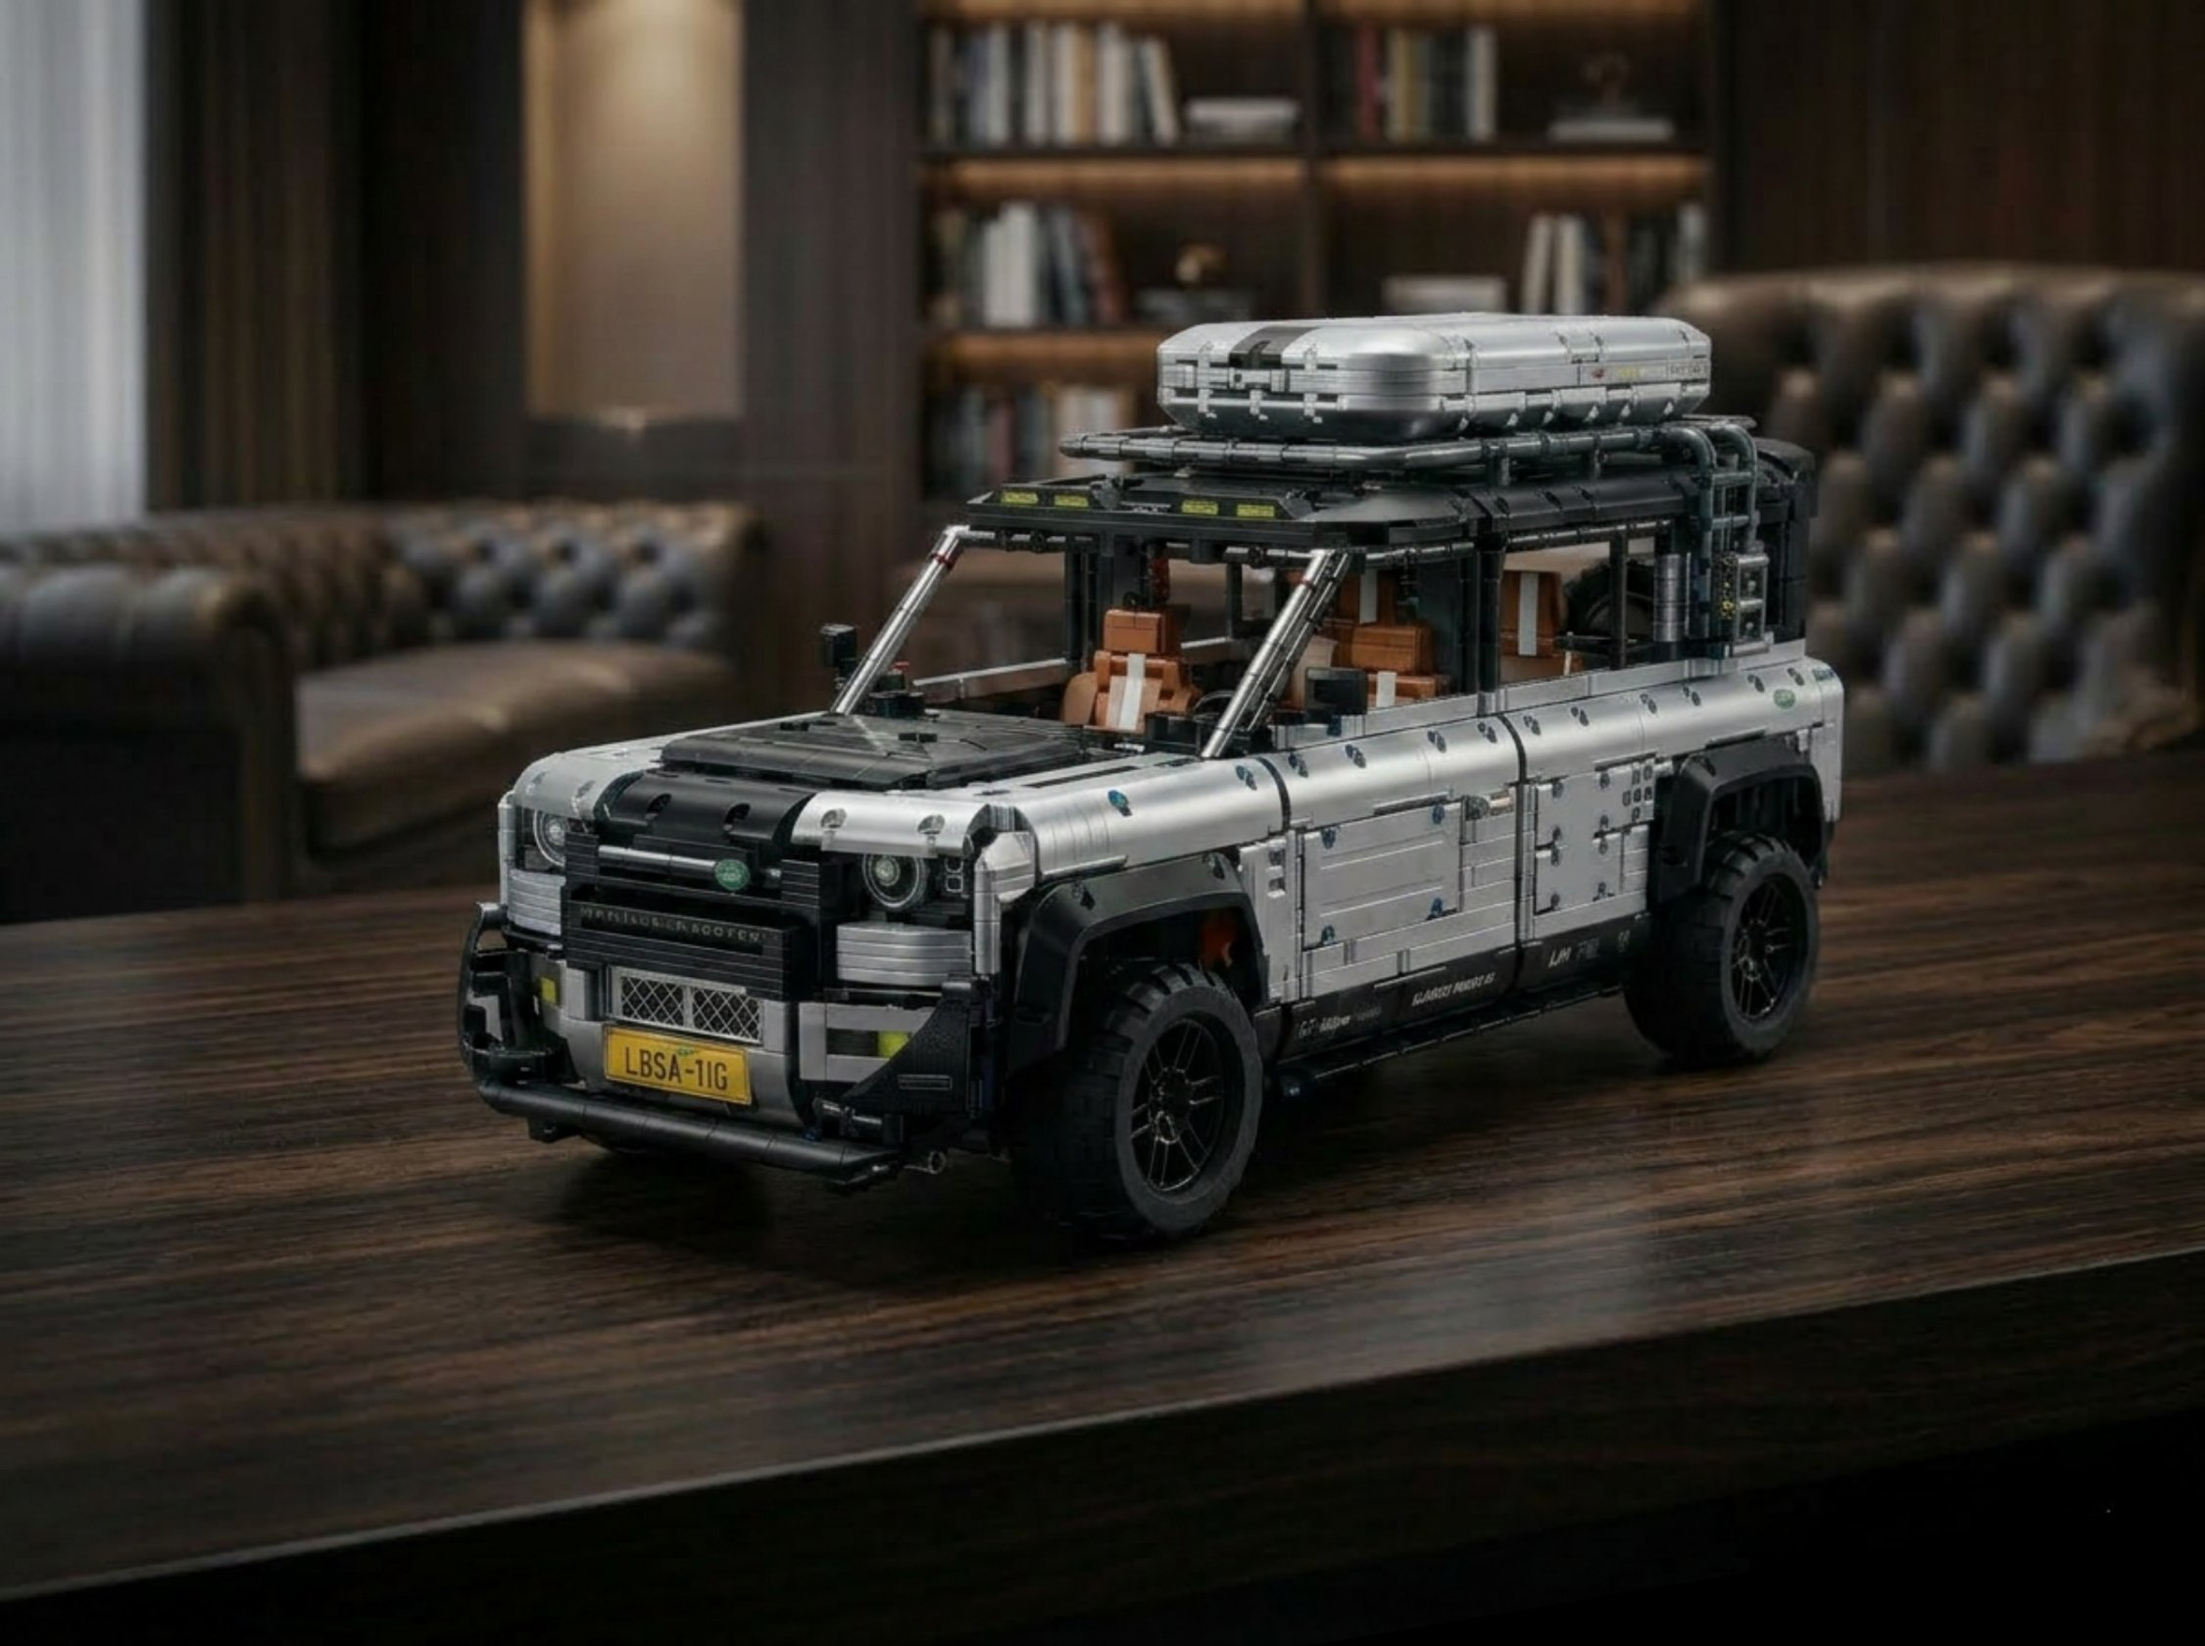
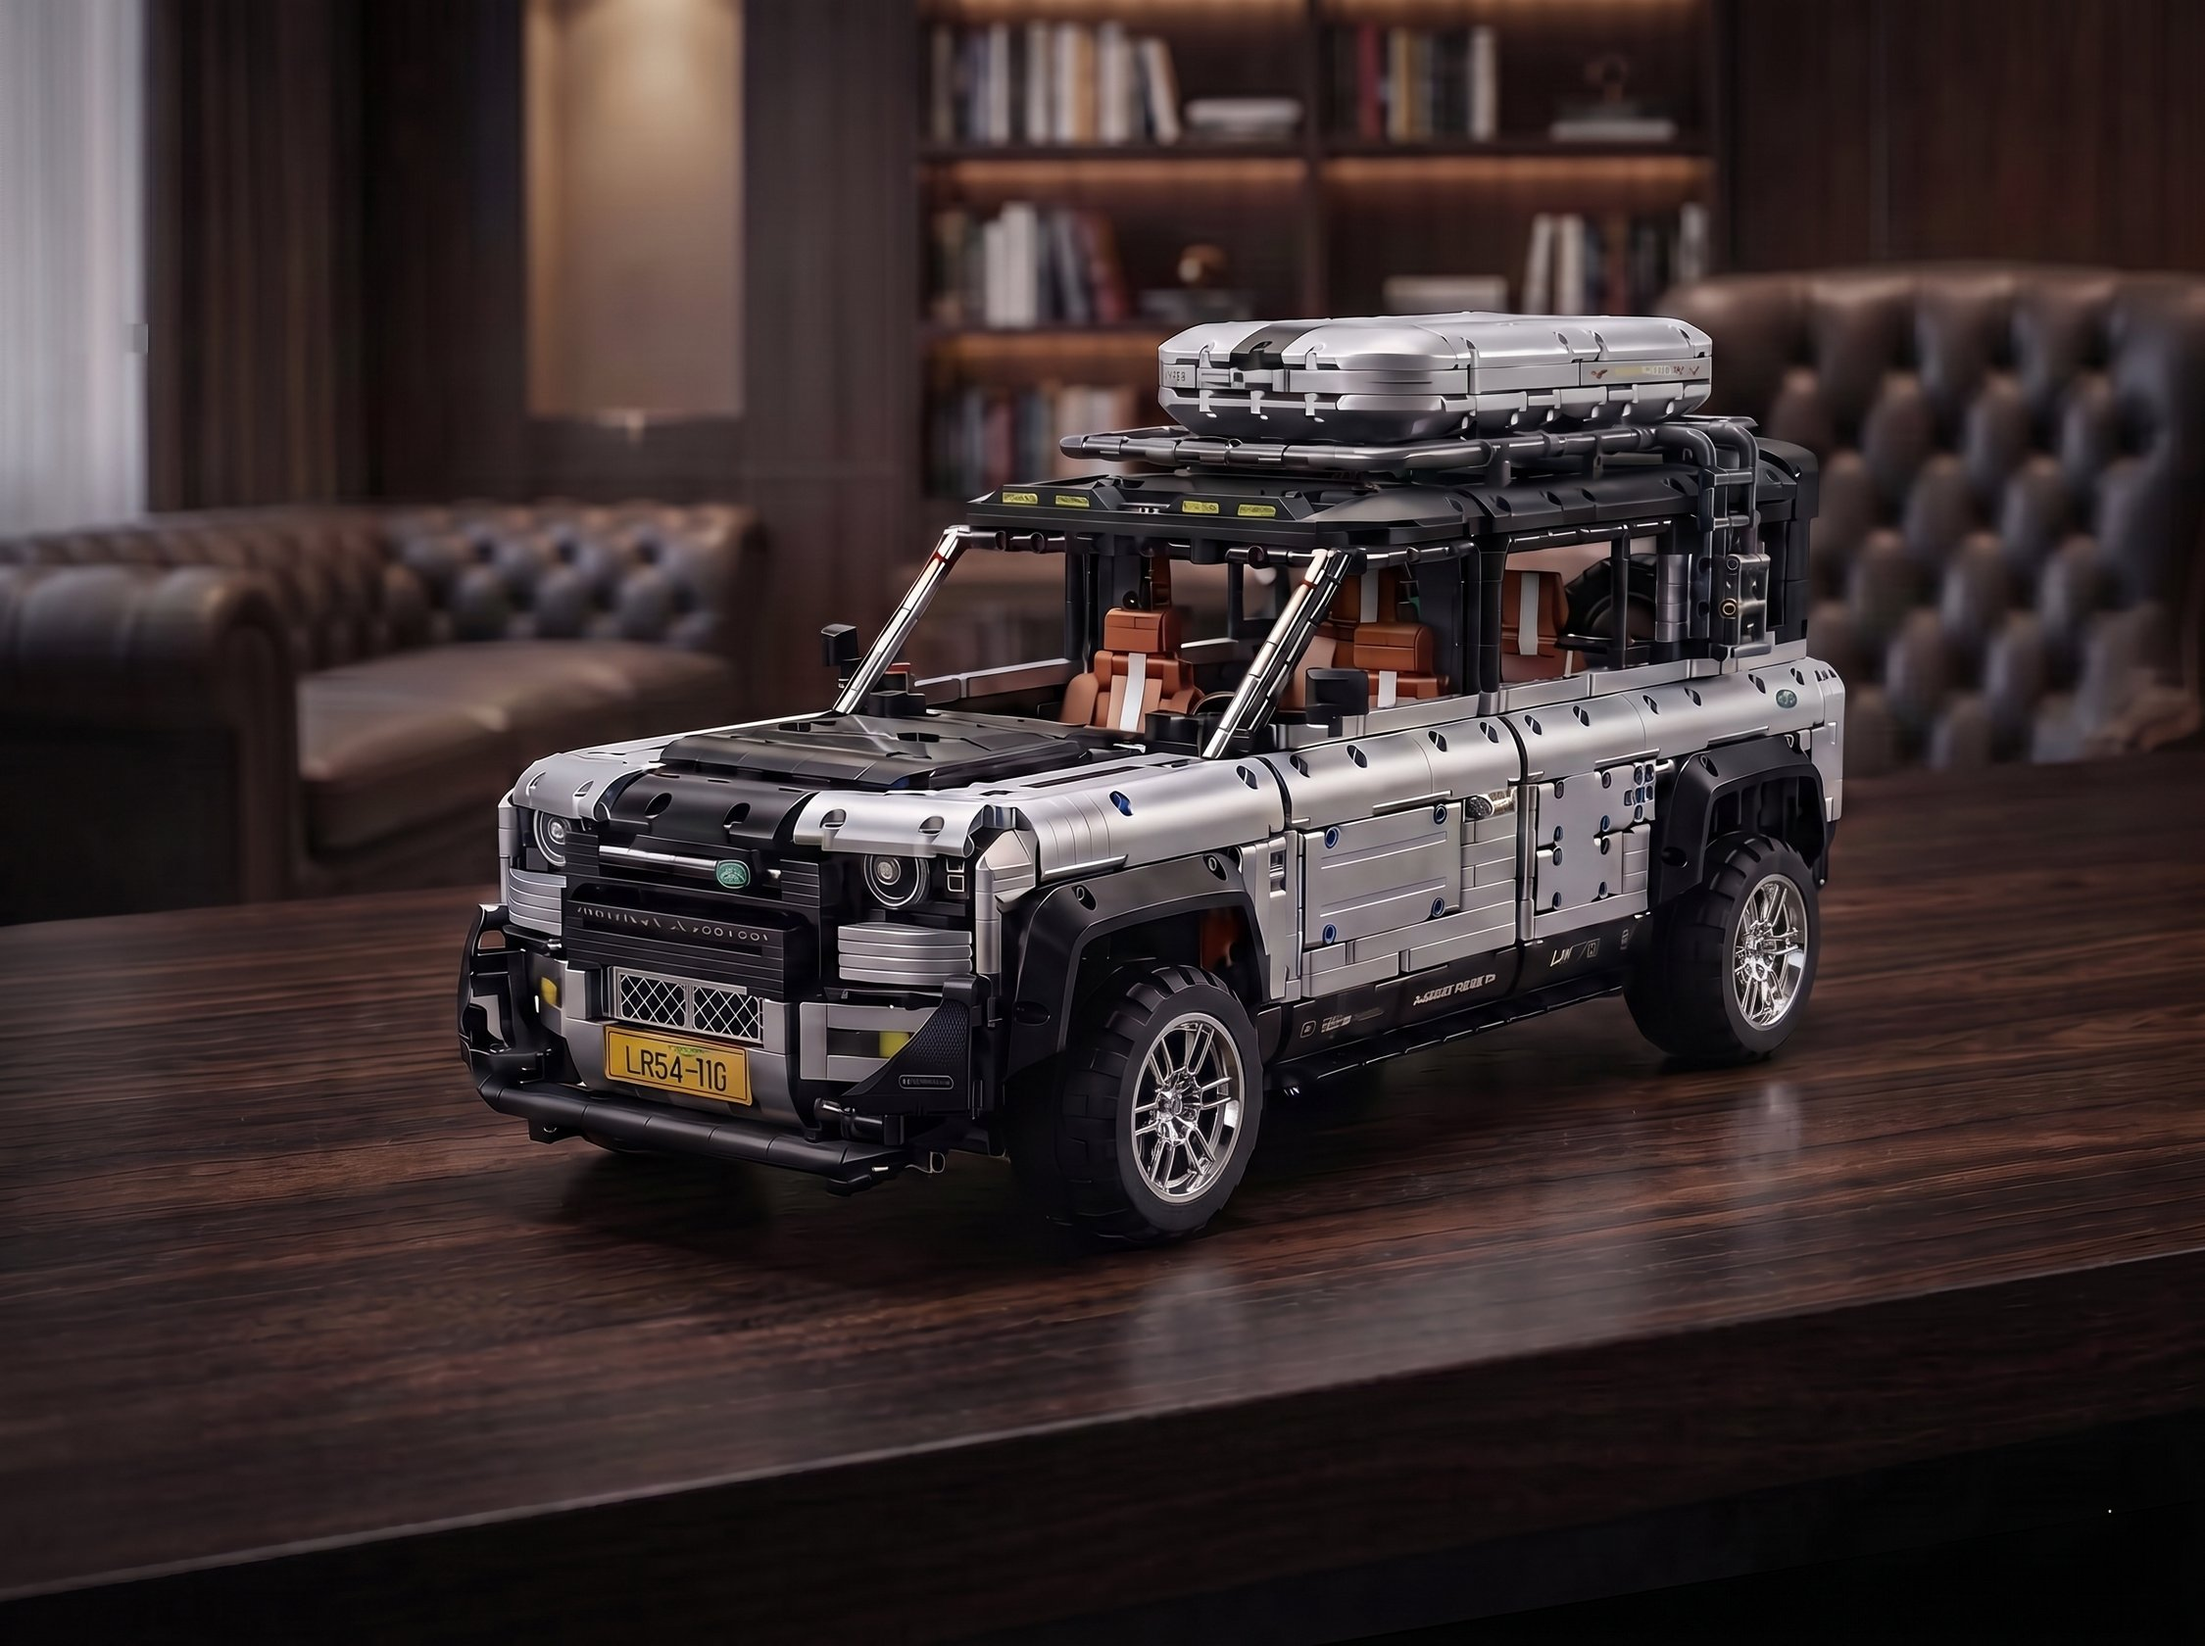
Add S18-016 photo gallery and fix cover with correct wheel color
Recomposes the S18-016 raw product photos (front, side, rear, detail,
packaging) into the same staged scene as the cover, corrects the wheel
rim color to silver across all shots, and wires them into the product
page as a clickable thumbnail gallery via image_urls.

diff --git a/site/src/lib/mockCatalog.ts b/site/src/lib/mockCatalog.ts
@@ -16,6 +16,6 @@ export const mockCatalog: CatalogProduct[] = [
   { id: 'S18-013', sku: 'S18-013', name: 'Nissan GTR Liberty Walk', category: 'carro', brand_model: 'Nissan GT-R', manufacturer: 'GULY', collection_tag: 'Supercarro', scale: '1:8', piece_count: 3939, sale_price_brl: 1656.7, image_url: '/products/S18-013.jpg', image_urls: [], video_url: null, automotive_history: null, dimensions: null, spec_highlights: null, length_cm: null, height_cm: null, width_cm: null, quantity_available: 28 },
   { id: 'S18-014', sku: 'S18-014', name: 'Ferrari Enzo', category: 'carro', brand_model: 'Ferrari Enzo', manufacturer: 'KBOX', collection_tag: 'Supercarro', scale: '1:8', piece_count: 4301, sale_price_brl: 1656.7, image_url: '/products/S18-014.jpg', image_urls: [], video_url: null, automotive_history: null, dimensions: null, spec_highlights: null, length_cm: null, height_cm: null, width_cm: null, quantity_available: 9 },
   { id: 'S18-015', sku: 'S18-015', name: 'Ferrari SF90 XX Stradale', category: 'carro', brand_model: 'Ferrari SF90 XX', manufacturer: 'GULY', collection_tag: 'Supercarro', scale: '1:8', piece_count: 3639, sale_price_brl: 1564.4, image_url: '/products/S18-015.jpg', image_urls: [], video_url: null, automotive_history: null, dimensions: null, spec_highlights: null, length_cm: null, height_cm: null, width_cm: null, quantity_available: 20 },
-  { id: 'S18-016', sku: 'S18-016', name: 'Land Rover Discovery', category: 'carro', brand_model: 'Land Rover Discovery', manufacturer: 'GULY', collection_tag: 'Off Road', scale: '1:8', piece_count: 4817, sale_price_brl: 2072.0, image_url: '/products/S18-016.jpg', image_urls: [], video_url: null, automotive_history: null, dimensions: null, spec_highlights: null, length_cm: null, height_cm: null, width_cm: null, quantity_available: 15 },
+  { id: 'S18-016', sku: 'S18-016', name: 'Land Rover Discovery', category: 'carro', brand_model: 'Land Rover Discovery', manufacturer: 'GULY', collection_tag: 'Off Road', scale: '1:8', piece_count: 4817, sale_price_brl: 2072.0, image_url: '/products/S18-016.jpg', image_urls: ['/products/S18-016-frente.jpg', '/products/S18-016-lateral.jpg', '/products/S18-016-traseira.jpg', '/products/S18-016-detalhe.jpg', '/products/S18-016-caixa.jpg'], video_url: null, automotive_history: null, dimensions: null, spec_highlights: null, length_cm: null, height_cm: null, width_cm: null, quantity_available: 15 },
   { id: 'S18-017', sku: 'S18-017', name: 'Lamborghini Aventador SVJ', category: 'carro', brand_model: 'Lamborghini Aventador SVJ', manufacturer: 'KBOX', collection_tag: 'Supercarro', scale: '1:8', piece_count: 3811, sale_price_brl: 1656.7, image_url: '/products/S18-017.jpg', image_urls: [], video_url: null, automotive_history: null, dimensions: null, spec_highlights: null, length_cm: null, height_cm: null, width_cm: null, quantity_available: 4 },
 ]

diff --git a/site/src/pages/Product.tsx b/site/src/pages/Product.tsx
@@ -21,11 +21,18 @@ export function Product() {
   const [product, setProduct] = useState<CatalogProduct | null | undefined>(undefined)
   const [quantity, setQuantity] = useState(1)
   const [added, setAdded] = useState(false)
+  const [activeImageIndex, setActiveImageIndex] = useState(0)
 
   useEffect(() => {
     if (!id) return
     getProduct(id).then((p) => setProduct(p ?? null))
   }, [id])
+
+  useEffect(() => {
+    setActiveImageIndex(0)
+  }, [product?.id])
+
+  const gallery = product ? [product.image_url, ...product.image_urls].filter((u): u is string => !!u) : []
 
   if (product === undefined) {
     return <div className="px-6 py-40 text-center" style={{ color: 'var(--ink-muted)' }}>Carregando...</div>
@@ -54,7 +61,29 @@ export function Product() {
 
       <div className="grid grid-cols-1 gap-12 lg:grid-cols-2">
         <motion.div initial={{ opacity: 0, x: -16 }} animate={{ opacity: 1, x: 0 }} transition={{ duration: 0.5 }}>
-          <ProductArt product={product} className="aspect-square w-full rounded-2xl" />
+          <ProductArt
+            product={product}
+            overrideSrc={gallery[activeImageIndex]}
+            className="aspect-square w-full rounded-2xl"
+          />
+          {gallery.length > 1 && (
+            <div className="mt-3 flex gap-2 overflow-x-auto pb-1">
+              {gallery.map((url, i) => (
+                <button
+                  key={url}
+                  type="button"
+                  onClick={() => setActiveImageIndex(i)}
+                  className="h-16 w-16 shrink-0 overflow-hidden rounded-lg border-2 transition-opacity"
+                  style={{
+                    borderColor: i === activeImageIndex ? 'var(--gold)' : 'var(--hairline)',
+                    opacity: i === activeImageIndex ? 1 : 0.7,
+                  }}
+                >
+                  <img src={url} alt={`${product.name} ${i + 1}`} className="h-full w-full object-cover" loading="lazy" />
+                </button>
+              ))}
+            </div>
+          )}
           {product.video_url && (
             <video
               key={product.video_url}

diff --git a/site/src/components/ProductArt.tsx b/site/src/components/ProductArt.tsx
@@ -31,16 +31,20 @@ const MotoGlyph = () => (
   </svg>
 )
 
-export function ProductArt({ product, className = '' }: { product: CatalogProduct; className?: string }) {
-  if (product.image_url) {
+export function ProductArt({
+  product,
+  className = '',
+  overrideSrc,
+}: {
+  product: CatalogProduct
+  className?: string
+  overrideSrc?: string
+}) {
+  const src = overrideSrc ?? product.image_url
+  if (src) {
     return (
       <div className={`relative overflow-hidden ${className}`}>
-        <img
-          src={product.image_url}
-          alt={product.name}
-          className="h-full w-full object-cover"
-          loading="lazy"
-        />
+        <img src={src} alt={product.name} className="h-full w-full object-cover" loading="lazy" />
       </div>
     )
   }
